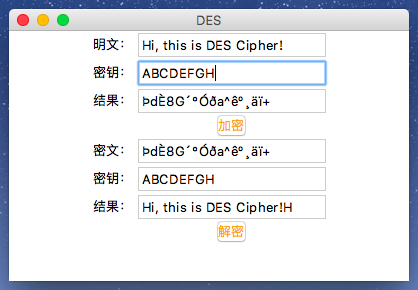
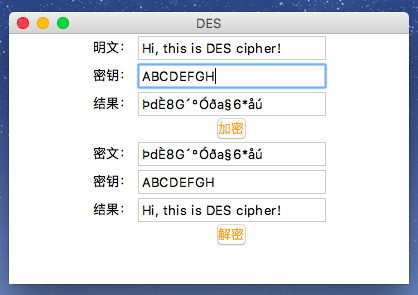
revise the DES cipher

diff --git a/DES.py b/DES.py
@@ -29,7 +29,7 @@ def cipher(message, key, mode='encrypt'):
 def fill(string):
     mod = len(string) % 8
     space = 8 - mod
-    return string + string[:space]
+    return string + bytes([0 for _ in range(space)]).decode('utf-8')
 
 
 class DES:
@@ -76,7 +76,7 @@ class DES:
             result = cipher(self.message[i * 8:i * 8 + 8], self.key, 'decrypt')
             output.append(result)
 
-        return ''.join(output)
+        return ''.join(output).rstrip(b'\x00'.decode('utf-8'))
 
 
 if __name__ == '__main__':
@@ -85,5 +85,5 @@ if __name__ == '__main__':
 
     cipher1 = DES('Sliver Love Ariel.', 'ABCDEFGH')
     print(cipher1.ciphertext)
-    cipher2 = DES("³$ý»;N«Ì\x0f¥[æT\x14Õ\x9cPÇ\x96¯6\x98kl", 'ABCDEFGH')
+    cipher2 = DES(cipher1.ciphertext, 'ABCDEFGH')
     print(cipher2.plaintext)

diff --git a/README.md b/README.md
@@ -15,7 +15,7 @@
 $ python3 main.py
 ```
 
-因为 DES 是分组密码，密钥要求是64位也就是8个字节的字符，所以密钥输入框只能输入8字节字符，待加密明文会对其进行填充补全，不用在意输入个数，但解密结果可能会和加密结果有所差别。
+因为 DES 是分组密码，密钥要求是64位也就是8个字节的字符，所以密钥输入框只能输入8字节字符，待加密明文会对其进行填充补全，不用在意输入个数。
 
 ![GUI](static/gui.png)
 
